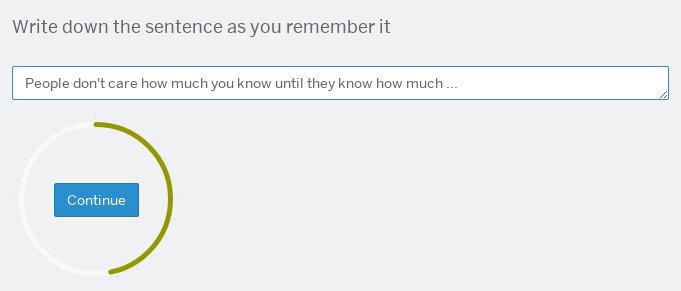
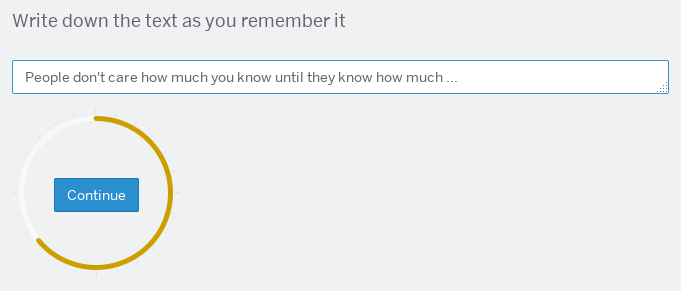
Fix #60, using "text" where "sentence" was used

diff --git a/app/components/play-instructions.js b/app/components/play-instructions.js
@@ -22,7 +22,7 @@ export default Ember.Component.extend(CtrlEnterNextMixin, {
       },
       {
         element: Ember.$('#instruction-read1').get(0),
-        intro: "You're going to read a sentence",
+        intro: "You're going to read a text (which can be from a sentence up to several paragraphs)",
         position: "right",
         image: 'read1'
       },
@@ -46,7 +46,7 @@ export default Ember.Component.extend(CtrlEnterNextMixin, {
       },
       {
         element: Ember.$('#instruction-write').get(0),
-        intro: 'Pay attention to <strong>capitalization</strong> and <strong>punctuation</strong>, even at the end of the sentence! (You can ignore ending periods though)',
+        intro: 'Pay attention to <strong>capitalization</strong> and <strong>punctuation</strong>',
         position: "left",
       },
       {
@@ -78,15 +78,15 @@ export default Ember.Component.extend(CtrlEnterNextMixin, {
       },
       {
         element: Ember.$('.instructions').get(0),
-        intro: "<p>It's the same principle.</p><p>But now you can explore how other people transformed sentences! (Go to your home page for that)</p>",
+        intro: "<p>It's the same principle.</p><p>But now you can explore how other people transformed texts! (Go to your home page for that)</p>",
       },
       {
         element: Ember.$('#available-sentences').get(0),
-        intro: "This tells you the number of sentences you haven't seen yet &mdash; it grows if other people suggest new ones",
+        intro: "This tells you the number of texts you haven't seen yet &mdash; it grows if other people suggest new ones",
       },
       {
         element: Ember.$('#next-credit').get(0),
-        intro: `Every ${cost} sentences you win a <strong>suggestion credit</strong> &mdash; head over to your home page to suggest your sentence!`,
+        intro: `Every ${cost} texts you win a <strong>suggestion credit</strong> &mdash; head over to your home page to suggest your text!`,
       }
     ];
   },
@@ -152,10 +152,10 @@ export default Ember.Component.extend(CtrlEnterNextMixin, {
   },
 
   imageDefinitions: [
-    { name: 'read1', title: 'Reading a sentence', fingerprint: '9d25ea8f14b2019efce93285645929ea' },
+    { name: 'read1', title: 'Reading a text', fingerprint: '9d25ea8f14b2019efce93285645929ea' },
     { name: 'read2', title: 'Time is short', fingerprint: 'efb67e2355031e784c8d501ee3dfef90' },
     { name: 'distract', title: 'Remember it well', fingerprint: '2a6b1ed9182367f38ddfcbea8422b5e4' },
-    { name: 'write', title: 'Writing the sentence', fingerprint: '0f6c3d49b6ca3f4efa7d93ca9cde25ba' }
+    { name: 'write', title: 'Writing the text', fingerprint: '3b8edeb7ba0cde9a371a6a63624bb7b3' }
   ],
   images: function() {
     var assets = this.get('assetMap');

diff --git a/app/controllers/index.js b/app/controllers/index.js
@@ -53,12 +53,12 @@ export default Ember.Controller.extend(SessionMixin, ProlificMixin, {
       },
       {
         element: Ember.$('#play').get(0),
-        intro: "You can continue transforming sentences",
+        intro: "You can continue transforming texts",
         position: 'right'
       },
       {
         element: Ember.$('#new').get(0),
-        intro: `If you have credits (you ${have}), you can suggest your own sentences!`,
+        intro: `If you have credits (you ${have}), you can suggest your own texts!`,
         position: 'right'
       },
       {

diff --git a/app/components/play-write.js b/app/components/play-write.js
@@ -101,7 +101,7 @@ export default Ember.Component.extend(TimefulMixin, SessionMixin, {
   tokensCountInfo: function() {
     if (this.get('enoughTokens')) { return; }
 
-    var info = "Your sentence must be at least " + this.get('shaping.minTokens') + " words long";
+    var info = "Your text must be at least " + this.get('shaping.minTokens') + " words long";
     if (this.get('text')) {
       info += " (type " + this.get('tokensLeft') + " more)";
     }

diff --git a/app/components/suggest-write.js b/app/components/suggest-write.js
@@ -58,7 +58,7 @@ export default Ember.Component.extend(SessionMixin, {
   tokensCountInfo: function() {
     if (this.get('enoughTokens')) { return; }
 
-    var info = "Your sentence must be at least " + this.get('shaping.minTokens') + " words long";
+    var info = "Your text must be at least " + this.get('shaping.minTokens') + " words long";
     if (this.get('text')) {
       info += " (type " + this.get('tokensLeft') + " more)";
     }

diff --git a/app/components/play-inform.js b/app/components/play-inform.js
@@ -46,7 +46,7 @@ export default Ember.Component.extend(SessionMixin, CtrlEnterNextMixin,
       if (splitEvent(event).name === 'new-credit') {
         this.get('growl').success(
           'New credit!',
-          'You can suggest a new sentence by going to Home > New'
+          'You can suggest a new text by going to Home > New'
         );
       }
     }
